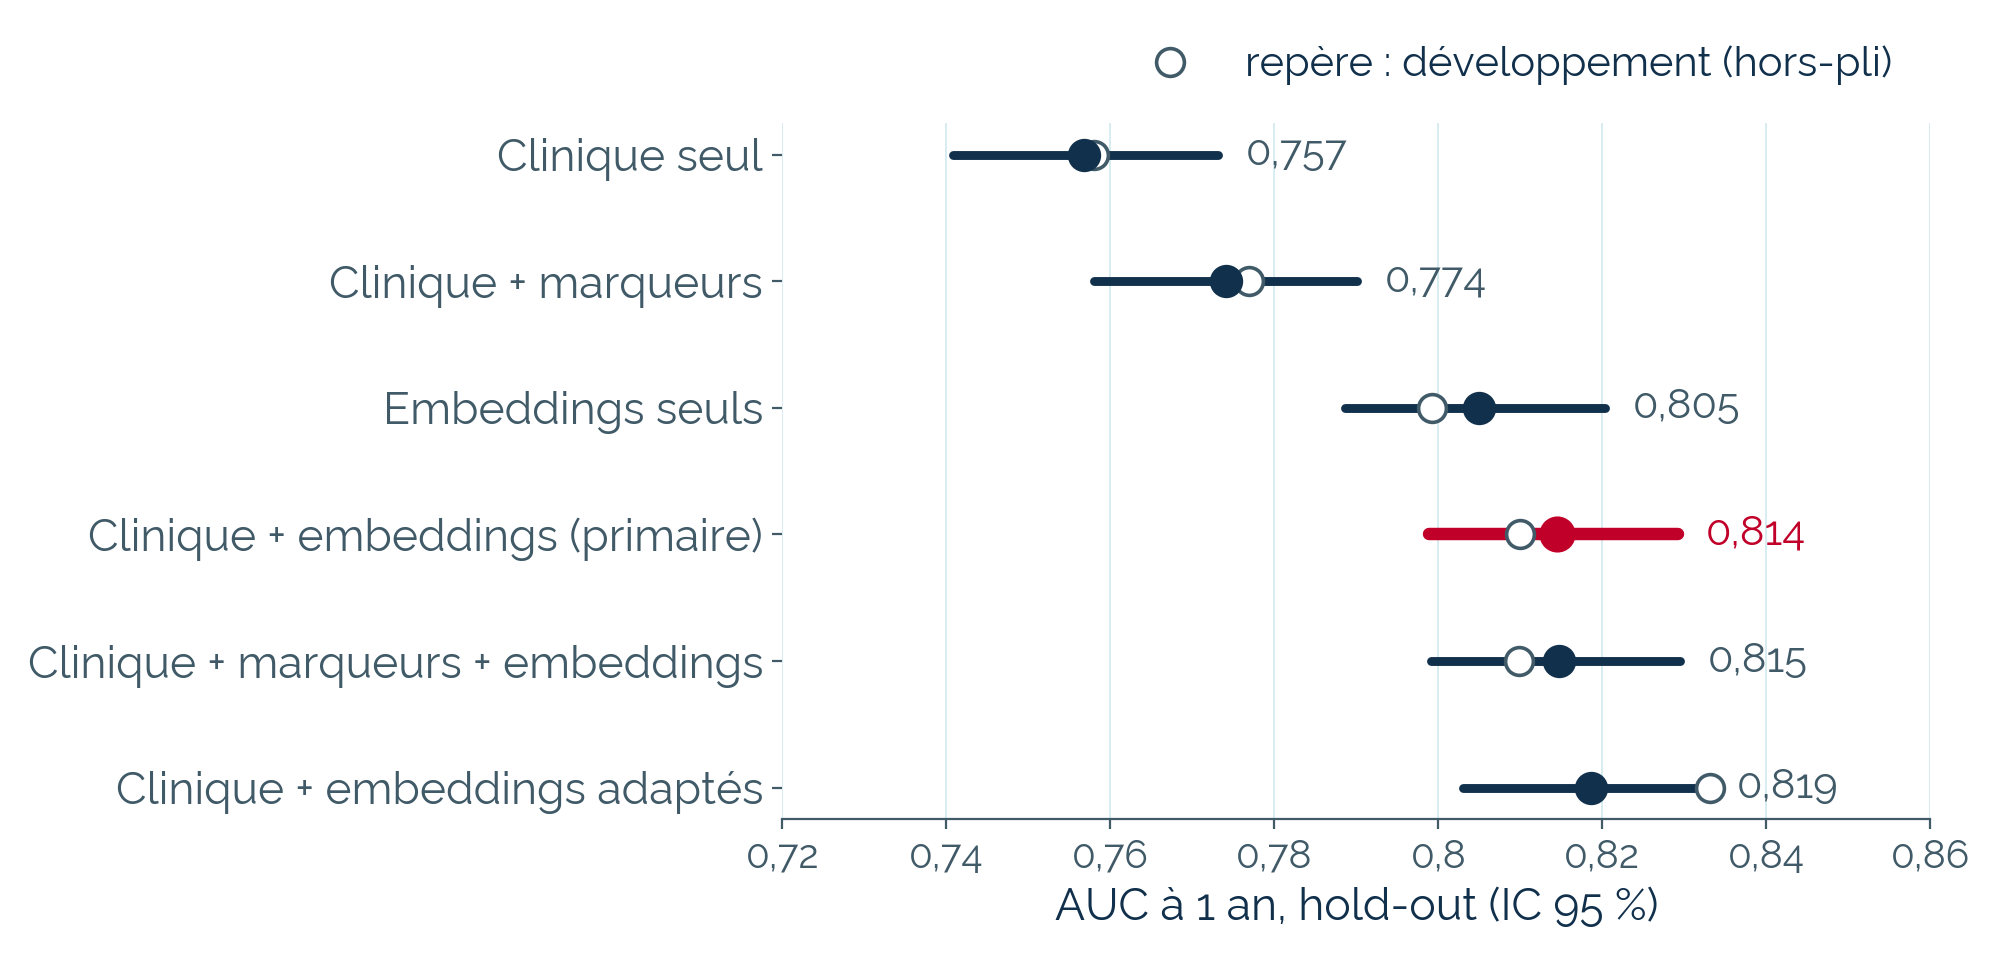
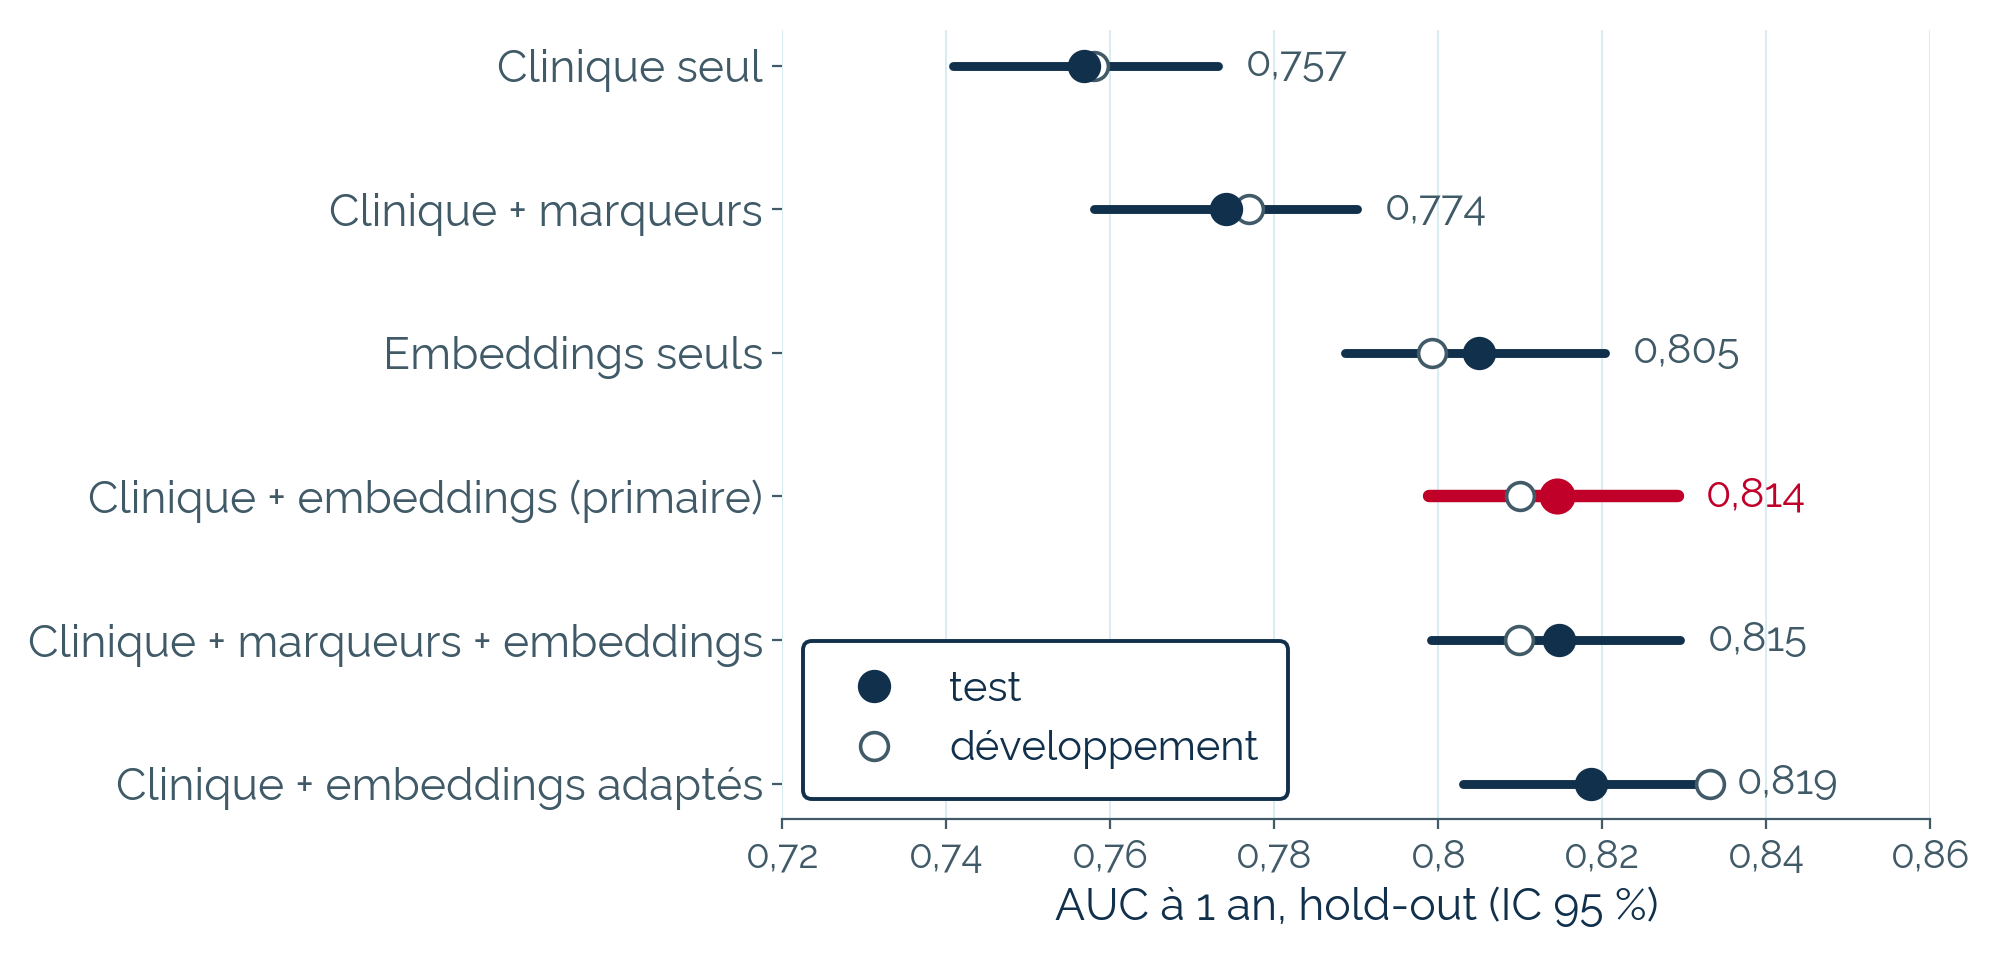
docs(poster): retouches éditoriales du surtitre, des titres et des figures

diff --git a/poster/poster.html b/poster/poster.html
@@ -35,7 +35,7 @@
   header { padding: 14mm 25mm 0 25mm; position: relative; }
   .surtitre { display: inline-block; font-family: 'Crimson Pro', serif; font-weight: 600; font-size: 19pt; }
   .surtitre .bloc { display: block; width: max-content; border: 0.8mm solid var(--bleu-fonce); padding: 1.5mm 5mm; background: #fff; }
-  .surtitre .bloc + .bloc { margin-top: -0.8mm; margin-left: 12mm; }
+  .surtitre .bloc + .bloc { margin-top: -0.8mm; margin-left: 12mm; width: 85.8mm; text-align: center; box-sizing: border-box; }
   .logo { position: absolute; top: 16mm; right: 25mm; height: 32mm; }
   .logo-projet { position: absolute; top: 52.7mm; left: 25mm; height: 48mm; }
   header h1, header .soustitre, header .auteurs { margin-left: 96mm; }
@@ -97,10 +97,13 @@
   .titre-message { font-family: 'Raleway', sans-serif; font-weight: 700; font-size: 31pt; margin-bottom: 4mm; line-height: 1.2; }
   .titre-message .rouge { color: var(--rouge); }
   .fig-dominante { margin-bottom: 5mm; }
-  .fig-dominante img { width: 92%; margin: 0 auto; }
-  .carte-contrastes { background: var(--bleu-clair-20); padding: 4mm 5mm 3mm 5mm; margin-bottom: 5mm; }
+  .fig-dominante img { width: 88%; margin: 0 auto; }
+  .carte-contrastes .fig-dominante img { width: 84%; }
+  .carte-contrastes { background: var(--bleu-clair-20); padding: 5mm 6mm 3mm 6mm; margin-bottom: 5mm; }
   .carte-contrastes .fig-dominante { margin-bottom: 0; }
-  .deux-colonnes { display: grid; grid-template-columns: 1.1fr 1fr; gap: 10mm; margin-top: 7mm; align-items: stretch; }
+  .carte-contrastes .titre-carte { font-family: 'Raleway', sans-serif; font-weight: 700; font-size: 29pt; line-height: 1.2; margin-bottom: 1.5mm; }
+  .carte-contrastes .sous-titre-carte { font-family: 'Raleway', sans-serif; font-size: 18pt; color: var(--gris); margin-bottom: 3mm; }
+  .deux-colonnes { display: grid; grid-template-columns: 1.1fr 1fr; gap: 10mm; margin-top: 6mm; align-items: stretch; }
 
   /* ===== ⑤ Bandeau représentation & adaptation ===== */
   .adaptation {
@@ -146,8 +149,8 @@
   <!-- ① En-tête -->
   <header>
     <div class="surtitre">
-      <span class="bloc">Poster scientifique</span>
-      <span class="bloc">Certificat IA en santé — 2026</span>
+      <span class="bloc">Certificat de Spécialisation</span>
+      <span class="bloc">IA en Santé 2026</span>
     </div>
     <img class="logo" src="figures/leCnam_Logo-2024_CMJN.png" alt="Cnam">
     <img class="logo-projet" src="figures/logo_afib.png" alt="AFIB-Predict">
@@ -188,7 +191,7 @@
       </div>
 
       <div class="bloc-note">
-        <h2>Une échelle, un facteur par barreau</h2>
+        <h2>La méthode</h2>
         <p>Six modèles emboîtés, du clinique seul à la fusion : chaque marche n'ajoute qu'une information, l'écart entre deux marches est donc attribuable à cette information seule. Trois fuites neutralisées par construction :</p>
         <ul>
           <li>aucune variable postérieure à l'ECG index ;</li>
@@ -213,13 +216,15 @@
 
     <!-- ④ Colonne droite : résultats -->
     <section>
-      <h2>Résultats — la passe verrouillée</h2>
+      <h2>Résultats</h2>
       <p class="titre-message">L'apport de l'ECG est établi ; celui de l'adaptation de l'encodeur <span class="rouge">ne l'est pas</span>.</p>
       <figure class="fig-dominante">
         <img src="figures/holdout-bras-slide.png" alt="Forest plot des six bras">
         <figcaption>Les six bras sur le jeu de test verrouillé : AUC à un an, IC 95 % bootstrap au niveau patient. L'échelle tient marche par marche — et les embeddings seuls dépassent déjà le dossier clinique complet.</figcaption>
       </figure>
       <div class="carte-contrastes">
+        <p class="titre-carte">Les cinq contrastes pré-spécifiés</p>
+        <p class="sous-titre-carte">27 618 patients · 838 événements · écarts appariés patient à patient</p>
         <figure class="fig-dominante">
           <img src="figures/forest_contrastes_holdout.png" alt="Forest plot des cinq contrastes">
           <figcaption>Les cinq comparaisons pré-enregistrées : écarts d'AUC appariés, seuls interprétables. Le contraste primaire — fusion contre clinique seul — est mis en évidence.</figcaption>
@@ -242,7 +247,7 @@
 
   <!-- ⑤ Bandeau adaptation -->
   <div class="adaptation">
-    <h2>Adapter l'encodeur : une recette soignée — et un apport que 838 événements n'établissent pas</h2>
+    <h2>Adapter l'encodeur : LoRA et cinq augmentations</h2>
     <p class="chapeau">Le dernier barreau de l'échelle adapte l'encodeur par LoRA (Low-Rank Adaptation), avec cinq augmentations du signal d'apprentissage. En développement, ce bras était le favori — mais aussi le plus sélectionné. Sur le jeu verrouillé, c'est lui qui recule le plus (−0,014) : une partie de son avance venait de la sélection, pas de l'adaptation.</p>
     <div class="frise">
       <figure>
